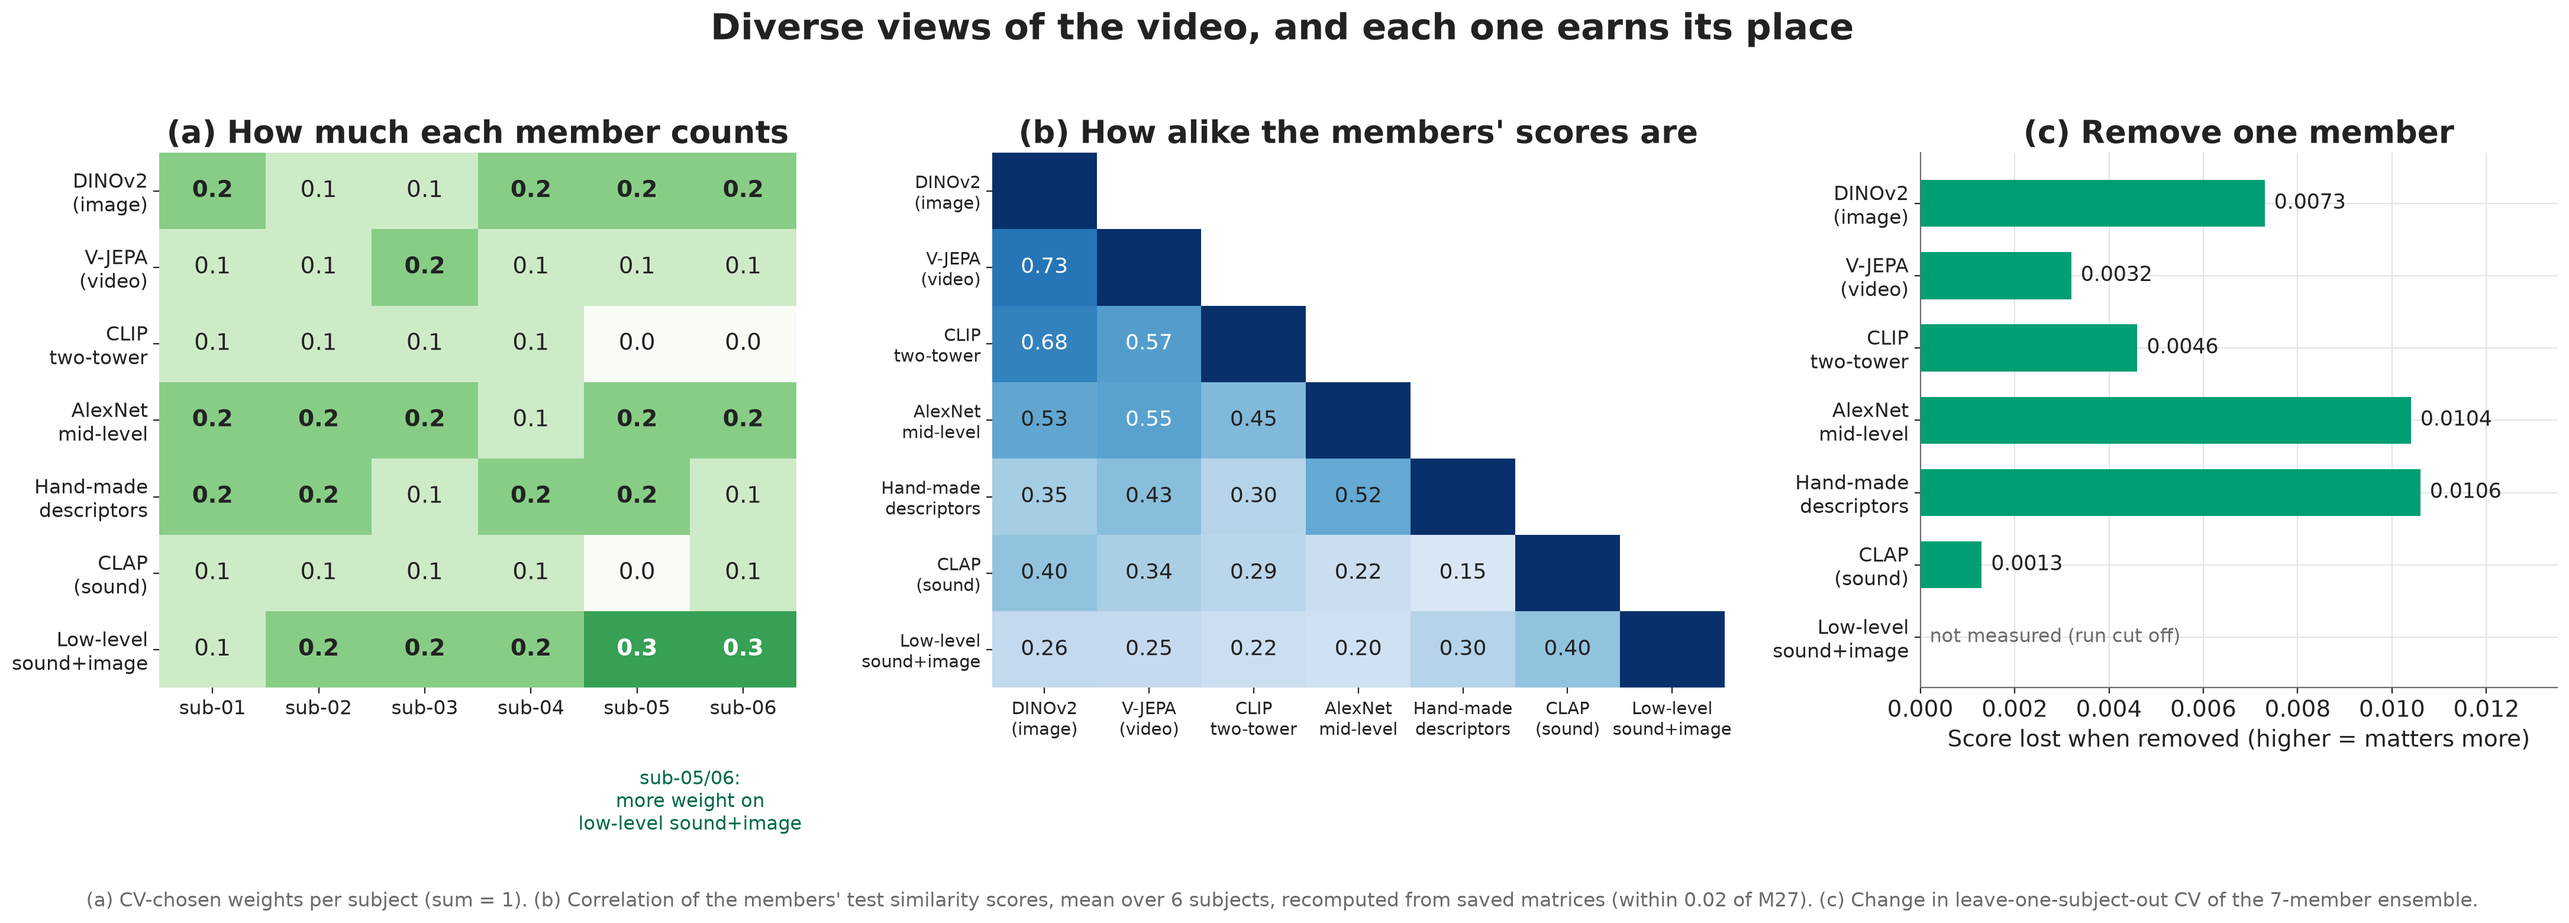
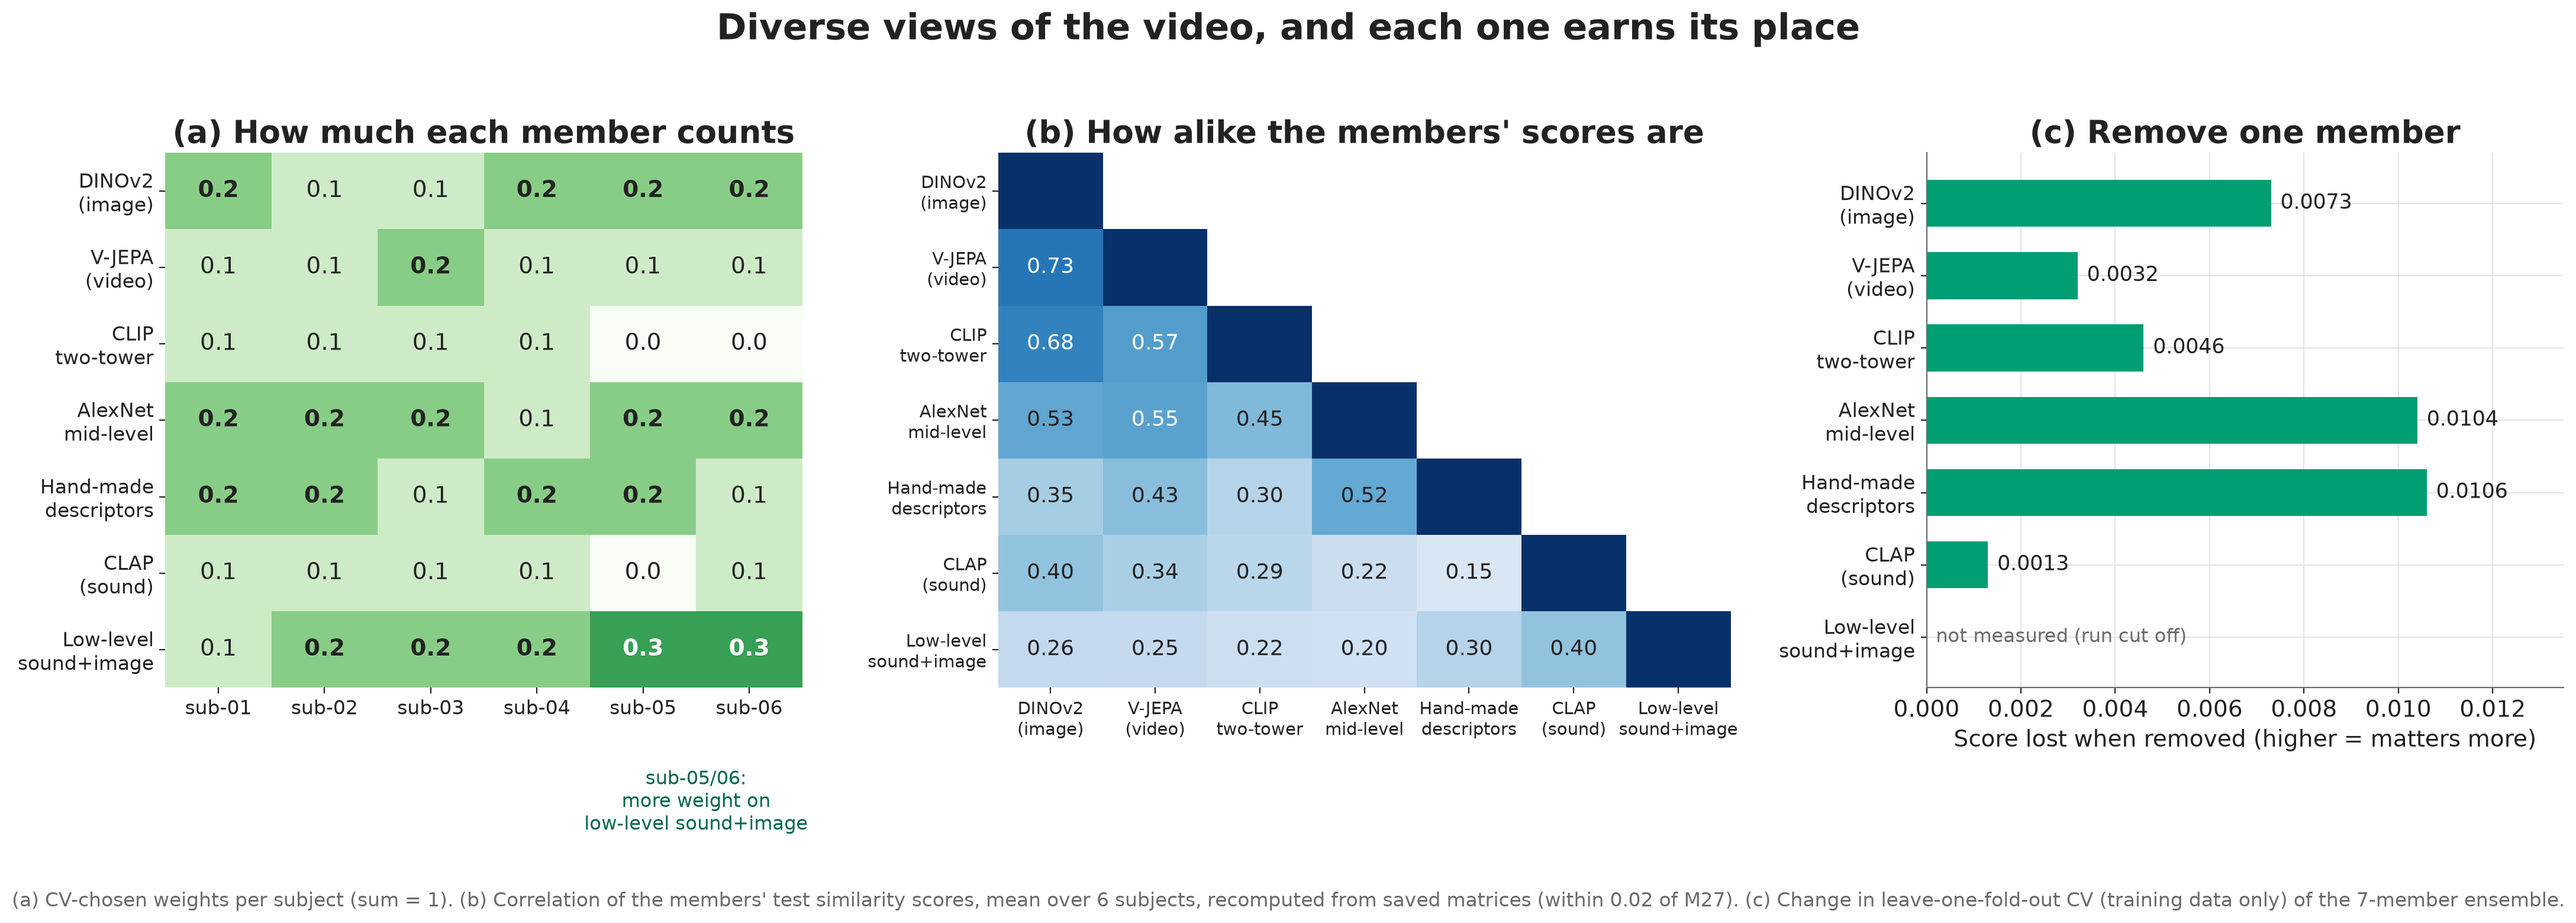
fig4 footnote: leave-one-fold-out CV (training data only)

diff --git a/presentation/make_figures.py b/presentation/make_figures.py
@@ -369,7 +369,7 @@ def fig4_ensemble() -> None:
     ax.set_title("(c) Remove one member")
     fig.suptitle("Diverse views of the video, and each one earns its place", fontsize=22, fontweight="bold", y=1.02)
     fig.text(0.5, -0.03, "(a) CV-chosen weights per subject (sum = 1). (b) Correlation of the members' test similarity scores, mean over 6 subjects, recomputed from saved "
-             "matrices (within 0.02 of M27). (c) Change in leave-one-subject-out CV of the 7-member ensemble.", ha="center", fontsize=12, color=MUTED)
+             "matrices (within 0.02 of M27). (c) Change in leave-one-fold-out CV (training data only) of the 7-member ensemble.", ha="center", fontsize=12, color=MUTED)
     fig.tight_layout()
     save(fig, "fig4_ensemble_anatomy")
 
